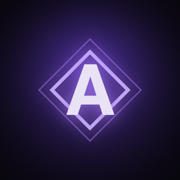
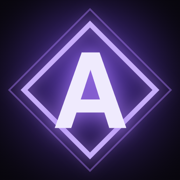
Фикс синка на iOS + ручное время, дедлайны, 「ARISE」, крупная иконка
- base64-кодирование data.json кусками: спред на больших файлах (карты
  с артами) переполнял стек вызовов в Safari — Maximum call stack size
- время задач указывается вручную в минутах/часах, множитель XP
  по диапазонам из конфига; старые категории читаются как раньше
- опциональный дедлайн у квестов: бейдж со сроком, подсветка
  «сегодня/завтра» и просрочки, сортировка по близости срока
- имя приложения на экране «Домой» — 「ARISE」
- логотип на иконке крупнее

diff --git a/src/components/TimeInput.jsx b/src/components/TimeInput.jsx
@@ -1,0 +1,36 @@
+import { useState } from 'react';
+
+// Ручной ввод времени: число + единица (минуты/часы) → onChange(минуты)
+export default function TimeInput({ minutes, onChange }) {
+  const [unit, setUnit] = useState(minutes >= 60 ? 'h' : 'm');
+  const value = unit === 'h' ? minutes / 60 : minutes;
+
+  function update(val, u) {
+    const n = Math.max(0, Number(val) || 0);
+    onChange(Math.round(u === 'h' ? n * 60 : n));
+  }
+
+  return (
+    <span className="time-input">
+      <input
+        className="input time-value"
+        type="number"
+        min="0"
+        step={unit === 'h' ? 0.5 : 5}
+        value={Number.isInteger(value) ? value : value.toFixed(1)}
+        onChange={(e) => update(e.target.value, unit)}
+      />
+      <select
+        className="select time-unit"
+        value={unit}
+        onChange={(e) => {
+          setUnit(e.target.value);
+          update(value, e.target.value);
+        }}
+      >
+        <option value="m">мин</option>
+        <option value="h">ч</option>
+      </select>
+    </span>
+  );
+}

diff --git a/src/components/TaskForm.jsx b/src/components/TaskForm.jsx
@@ -2,24 +2,27 @@ import { useState } from 'react';
 import { CONFIG, STATS } from '../config.js';
 import { taskXP } from '../lib/xp.js';
 import { useApp } from '../state/AppContext.jsx';
+import TimeInput from './TimeInput.jsx';
 
-// Быстрое добавление (§6.1): название + три компактных селектора,
-// XP-превью считается на лету.
+// Быстрое добавление (§6.1): название, стат, сложность, время вручную
+// (минуты/часы) и опциональный дедлайн. XP-превью считается на лету.
 export default function TaskForm({ onAdded }) {
   const { dispatch } = useApp();
   const [title, setTitle] = useState('');
   const [stat, setStat] = useState('work');
   const [difficulty, setDifficulty] = useState('normal');
-  const [time, setTime] = useState('medium');
+  const [minutes, setMinutes] = useState(30);
+  const [deadline, setDeadline] = useState('');
 
-  const preview = taskXP(difficulty, time);
+  const preview = taskXP(difficulty, minutes);
 
   function submit(e) {
     e.preventDefault();
     const t = title.trim();
     if (!t) return;
-    dispatch({ type: 'ADD_TASK', title: t, stat, difficulty, time, source: 'manual' });
+    dispatch({ type: 'ADD_TASK', title: t, stat, difficulty, time: minutes, deadline, source: 'manual' });
     setTitle('');
+    setDeadline('');
     onAdded?.();
   }
 
@@ -30,7 +33,6 @@ export default function TaskForm({ onAdded }) {
         placeholder="Новый квест…"
         value={title}
         onChange={(e) => setTitle(e.target.value)}
-        autoFocus
       />
       <div className="task-form-row">
         <select className="select" value={stat} onChange={(e) => setStat(e.target.value)}>
@@ -43,11 +45,18 @@ export default function TaskForm({ onAdded }) {
             <option key={k} value={k}>{v.label}</option>
           ))}
         </select>
-        <select className="select" value={time} onChange={(e) => setTime(e.target.value)}>
-          {Object.entries(CONFIG.TIME).map(([k, v]) => (
-            <option key={k} value={k}>{v.label}</option>
-          ))}
-        </select>
+        <TimeInput minutes={minutes} onChange={setMinutes} />
+      </div>
+      <div className="task-form-row">
+        <label className="deadline-field">
+          <span className="dim">Дедлайн</span>
+          <input
+            className="input"
+            type="date"
+            value={deadline}
+            onChange={(e) => setDeadline(e.target.value)}
+          />
+        </label>
         <span className="xp-preview">+{preview} XP</span>
         <button className="btn primary" type="submit" disabled={!title.trim()}>
           Принять

diff --git a/src/styles.css b/src/styles.css
@@ -212,6 +212,33 @@ body {
 .grow { flex: 1; min-width: 160px; }
 .xp-input { width: 84px; }
 
+/* ручной ввод времени: число + мин/ч */
+.time-input { display: inline-flex; align-items: center; gap: 6px; }
+.time-value { width: 76px; }
+.time-unit { width: auto; }
+
+/* дедлайн */
+.deadline-field { display: inline-flex; align-items: center; gap: 8px; }
+.deadline-field .input { color-scheme: dark; }
+.deadline-badge {
+  font-family: var(--mono);
+  font-size: 11px;
+  color: var(--text-dim);
+  border: 1px solid var(--border);
+  border-radius: 999px;
+  padding: 2px 9px;
+  white-space: nowrap;
+}
+.deadline-badge.soon {
+  color: var(--gold);
+  border-color: rgba(232, 199, 106, 0.4);
+}
+.deadline-badge.overdue {
+  color: var(--danger);
+  border-color: rgba(255, 91, 126, 0.45);
+  text-shadow: 0 0 8px rgba(255, 91, 126, 0.4);
+}
+
 .xp-preview {
   font-family: var(--mono);
   font-size: 13px;

diff --git a/src/components/QuestsScreen.jsx b/src/components/QuestsScreen.jsx
@@ -4,13 +4,35 @@ import TaskForm from './TaskForm.jsx';
 import PlanInput from './PlanInput.jsx';
 import { useApp } from '../state/AppContext.jsx';
 import { STATS } from '../config.js';
+import { deadlineInfo } from '../lib/util.js';
 
 const SOURCE_MARK = { manual: '', heuristic: '·H', llm: '·AI' };
+
+// Бейдж дедлайна: «⌛ 15.07 · 3 дн.», подсветка «сегодня» и просрочки
+function DeadlineBadge({ deadline }) {
+  const info = deadlineInfo(deadline);
+  if (!info) return null;
+  const cls = info.left < 0 ? 'overdue' : info.left <= 1 ? 'soon' : '';
+  const note = info.left < 0 ? `просрочен ${-info.left} дн.` : info.left === 0 ? 'сегодня' : info.left === 1 ? 'завтра' : `${info.left} дн.`;
+  return (
+    <span className={`deadline-badge ${cls}`} title={`Дедлайн: ${deadline}`}>
+      ⌛ {info.label} · {note}
+    </span>
+  );
+}
+
+// Просроченные и горящие — выше, дальше по близости дедлайна
+function sortByDeadline(a, b) {
+  if (!a.deadline && !b.deadline) return 0;
+  if (!a.deadline) return 1;
+  if (!b.deadline) return -1;
+  return a.deadline.localeCompare(b.deadline);
+}
 
 export default function QuestsScreen() {
   const { state, dispatch } = useApp();
   const [showDone, setShowDone] = useState(false);
-  const todo = state.data.tasks.filter((t) => t.status === 'todo');
+  const todo = state.data.tasks.filter((t) => t.status === 'todo').sort(sortByDeadline);
   const done = state.data.tasks.filter((t) => t.status === 'done');
 
   return (
@@ -38,6 +60,7 @@ export default function QuestsScreen() {
                   ◇
                 </button>
                 <span className="task-title">{t.title}</span>
+                <DeadlineBadge deadline={t.deadline} />
                 <span className={`tag stat-${t.stat}`}>{STATS[t.stat]?.label}</span>
                 <span className="task-xp">+{t.xp} XP</span>
                 <span className="dim">{SOURCE_MARK[t.source]}</span>

diff --git a/src/lib/heuristic.js b/src/lib/heuristic.js
@@ -9,12 +9,19 @@ const STAT_PATTERNS = {
   work:  /работ|митинг|созвон|таск|тикет|релиз|код-?ревью|деплой|отчёт|отчет/i,
 };
 
-const TIME_PATTERNS = [
-  { re: /день|весь день|целый день/i, time: 'day' },
-  { re: /час[а-я]*|2\s*ч|пару часов|полтора/i, time: 'long' },
-  { re: /30\s*мин|полчас/i, time: 'medium' },
-  { re: /5\s*мин|10\s*мин|быстро|мелоч/i, time: 'short' },
-];
+// Оценка времени в минутах из текста строки
+function guessMinutes(title) {
+  let m = title.match(/(\d+([.,]\d+)?)\s*час|(\d+([.,]\d+)?)\s*ч\b/i);
+  if (m) return Math.round(parseFloat((m[1] || m[3]).replace(',', '.')) * 60);
+  m = title.match(/(\d+)\s*мин/i);
+  if (m) return parseInt(m[1], 10);
+  if (/весь день|целый день|день\b/i.test(title)) return 480;
+  if (/пару часов|полтора/i.test(title)) return 120;
+  if (/час/i.test(title)) return 60;
+  if (/полчас/i.test(title)) return 30;
+  if (/быстро|мелоч|5\s*мин/i.test(title)) return 10;
+  return 30;
+}
 
 const DIFF_PATTERNS = [
   { re: /эпик|огромн|важнейш|защит/i, difficulty: 'epic' },
@@ -36,8 +43,7 @@ export function parsePlanHeuristic(text) {
     .map((line) => line.replace(/^\s*(?:[-*—]|\d+[.)\]])\s*/, '').trim())
     .filter((line) => line.length > 1)
     .map((title) => {
-      const time = TIME_PATTERNS.find((p) => p.re.test(title))?.time || 'medium';
       const difficulty = DIFF_PATTERNS.find((p) => p.re.test(title))?.difficulty || 'normal';
-      return { title, stat: guessStat(title), difficulty, time };
+      return { title, stat: guessStat(title), difficulty, time: guessMinutes(title) };
     });
 }

diff --git a/src/lib/util.js b/src/lib/util.js
@@ -23,3 +23,21 @@ export function daysBetween(dateKeyA, dateKeyB) {
 export function monthKey(d = new Date()) {
   return `${d.getFullYear()}-${String(d.getMonth() + 1).padStart(2, '0')}`;
 }
+
+// 90 → «1.5 ч», 45 → «45 мин»
+export function formatMinutes(min) {
+  if (min >= 60) {
+    const h = min / 60;
+    return `${Number.isInteger(h) ? h : h.toFixed(1)} ч`;
+  }
+  return `${min} мин`;
+}
+
+// «12.07» + сколько осталось; отрицательное = просрочено
+export function deadlineInfo(deadline) {
+  if (!deadline) return null;
+  const today = todayKey();
+  const left = daysBetween(today, deadline);
+  const [, m, d] = deadline.split('-');
+  return { label: `${d}.${m}`, left };
+}

diff --git a/src/config.js b/src/config.js
@@ -9,12 +9,15 @@ export const CONFIG = {
     hard:    { label: 'Сложно',     mult: 2.5 },
     epic:    { label: 'Эпик',       mult: 4.0 },
   },
-  TIME: {
-    short:  { label: '~5 мин',      mult: 1.0 },
-    medium: { label: '~30 мин',     mult: 1.5 },
-    long:   { label: '~пара часов', mult: 2.5 },
-    day:    { label: 'день+',       mult: 4.0 },
-  },
+  // Время указывается вручную в минутах; множитель — по диапазонам из §5.1
+  TIME_BRACKETS: [
+    { maxMinutes: 10, mult: 1.0 },       // ~5 мин
+    { maxMinutes: 45, mult: 1.5 },       // ~30 мин
+    { maxMinutes: 240, mult: 2.5 },      // ~пара часов
+    { maxMinutes: Infinity, mult: 4.0 }, // день+
+  ],
+  // Старые категории времени (задачи, созданные до перехода на минуты)
+  LEGACY_TIME_MINUTES: { short: 5, medium: 30, long: 120, day: 480 },
 
   // §5.2 — кривая уровней: xp_to_next(L) = round(LEVEL_BASE × L^LEVEL_EXP)
   LEVEL_BASE: 100,

diff --git a/src/lib/xp.js b/src/lib/xp.js
@@ -1,10 +1,18 @@
 import { CONFIG } from '../config.js';
 
-// §5.1: XP = BASE × mult_difficulty × mult_time
+export function timeMultForMinutes(minutes) {
+  for (const { maxMinutes, mult } of CONFIG.TIME_BRACKETS) {
+    if (minutes <= maxMinutes) return mult;
+  }
+  return 1;
+}
+
+// §5.1: XP = BASE × mult_difficulty × mult_time.
+// time — минуты (число) либо старая категория ('short'|'medium'|…).
 export function taskXP(difficulty, time) {
   const d = CONFIG.DIFFICULTY[difficulty]?.mult ?? 1;
-  const t = CONFIG.TIME[time]?.mult ?? 1;
-  return Math.round(CONFIG.BASE_XP * d * t);
+  const minutes = typeof time === 'number' ? time : CONFIG.LEGACY_TIME_MINUTES[time] ?? 30;
+  return Math.round(CONFIG.BASE_XP * d * timeMultForMinutes(minutes));
 }
 
 // §5.2: xp_to_next(L) = round(100 × L^1.5)

diff --git a/src/components/DailiesScreen.jsx b/src/components/DailiesScreen.jsx
@@ -1,5 +1,6 @@
 import { useState } from 'react';
 import Panel from './Panel.jsx';
+import TimeInput from './TimeInput.jsx';
 import { useApp } from '../state/AppContext.jsx';
 import { CONFIG, STATS } from '../config.js';
 import { taskXP } from '../lib/xp.js';
@@ -13,7 +14,7 @@ export default function DailiesScreen() {
   const [title, setTitle] = useState('');
   const [stat, setStat] = useState('jp');
   const [difficulty, setDifficulty] = useState('normal');
-  const [time, setTime] = useState('medium');
+  const [minutes, setMinutes] = useState(30);
 
   const doneCount = dailies.filter((d) => d.history[today]).length;
 
@@ -21,7 +22,7 @@ export default function DailiesScreen() {
     e.preventDefault();
     const t = title.trim();
     if (!t) return;
-    dispatch({ type: 'ADD_DAILY', title: t, stat, difficulty, time });
+    dispatch({ type: 'ADD_DAILY', title: t, stat, difficulty, time: minutes });
     setTitle('');
   }
 
@@ -98,12 +99,8 @@ export default function DailiesScreen() {
                 <option key={k} value={k}>{v.label}</option>
               ))}
             </select>
-            <select className="select" value={time} onChange={(e) => setTime(e.target.value)}>
-              {Object.entries(CONFIG.TIME).map(([k, v]) => (
-                <option key={k} value={k}>{v.label}</option>
-              ))}
-            </select>
-            <span className="xp-preview">+{taskXP(difficulty, time)} XP/день</span>
+            <TimeInput minutes={minutes} onChange={setMinutes} />
+            <span className="xp-preview">+{taskXP(difficulty, minutes)} XP/день</span>
             <button className="btn primary" type="submit" disabled={!title.trim()}>
               Добавить
             </button>

diff --git a/src/lib/github.js b/src/lib/github.js
@@ -12,9 +12,17 @@ function headers(token) {
   };
 }
 
-// Unicode-безопасный base64
+// Unicode-безопасный base64. Кодируем кусками: String.fromCharCode(...arr)
+// на большом data.json (карты с base64-артами) переполняет стек вызовов,
+// особенно в Safari на iOS.
 function encode(str) {
-  return btoa(String.fromCharCode(...new TextEncoder().encode(str)));
+  const bytes = new TextEncoder().encode(str);
+  const CHUNK = 0x8000;
+  let bin = '';
+  for (let i = 0; i < bytes.length; i += CHUNK) {
+    bin += String.fromCharCode.apply(null, bytes.subarray(i, i + CHUNK));
+  }
+  return btoa(bin);
 }
 
 function decode(b64) {

diff --git a/src/components/PlanInput.jsx b/src/components/PlanInput.jsx
@@ -2,6 +2,7 @@ import { useState } from 'react';
 import { useApp } from '../state/AppContext.jsx';
 import { CONFIG, STATS } from '../config.js';
 import { taskXP } from '../lib/xp.js';
+import TimeInput from './TimeInput.jsx';
 import { parsePlanHeuristic } from '../lib/heuristic.js';
 import { isWebGPUAvailable, parsePlanLLM } from '../llm/planner.js';
 
@@ -88,11 +89,7 @@ export default function PlanInput() {
                   <option key={k} value={k}>{v.label}</option>
                 ))}
               </select>
-              <select className="select" value={t.time} onChange={(e) => patchDraft(i, 'time', e.target.value)}>
-                {Object.entries(CONFIG.TIME).map(([k, v]) => (
-                  <option key={k} value={k}>{v.label}</option>
-                ))}
-              </select>
+              <TimeInput minutes={t.time} onChange={(m) => patchDraft(i, 'time', m)} />
               <span className="xp-preview">+{taskXP(t.difficulty, t.time)}</span>
               <button className="icon-btn" title="Убрать" onClick={() => setDraft(draft.filter((_, idx) => idx !== i))}>
                 ✕

diff --git a/src/llm/planner.js b/src/llm/planner.js
@@ -4,7 +4,7 @@
 // few-shot примерами + робастным извлечением JSON из ответа.
 // XP сайт считает сам по §5.1 — модель его не выдумывает.
 
-import { STAT_KEYS } from '../config.js';
+import { CONFIG, STAT_KEYS } from '../config.js';
 
 let enginePromise = null;
 let loadedModel = null;
@@ -103,12 +103,14 @@ export async function parsePlanLLM(text, model, onProgress) {
   const tasks = Array.isArray(parsed) ? parsed : parsed.tasks;
   if (!Array.isArray(tasks)) throw new Error('LLM вернула не массив задач');
   // Валидация схемы — недоверенный вывод модели приводим к допустимым значениям
+  // Модель отдаёт категорию времени (стабильнее для few-shot),
+  // сайт конвертирует её в минуты — дальше всё в минутах.
   return tasks
     .filter((t) => t && typeof t.title === 'string' && t.title.trim())
     .map((t) => ({
       title: t.title.trim(),
       stat: STAT_KEYS.includes(t.stat) ? t.stat : 'work',
       difficulty: ['trivial', 'normal', 'hard', 'epic'].includes(t.difficulty) ? t.difficulty : 'normal',
-      time: ['short', 'medium', 'long', 'day'].includes(t.time) ? t.time : 'medium',
+      time: CONFIG.LEGACY_TIME_MINUTES[t.time] ?? 30,
     }));
 }